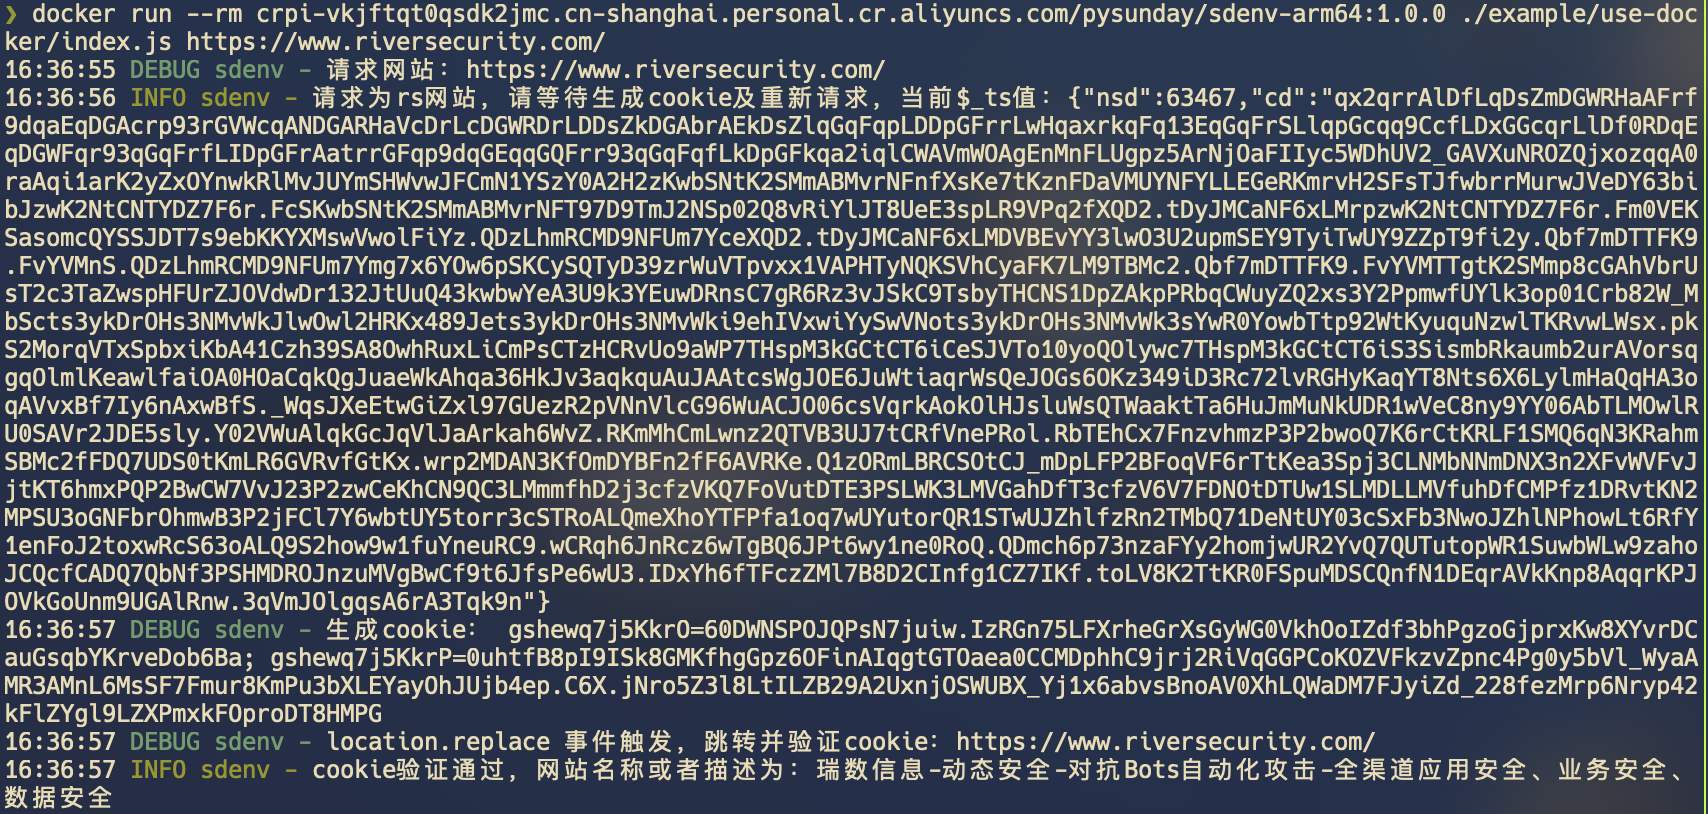
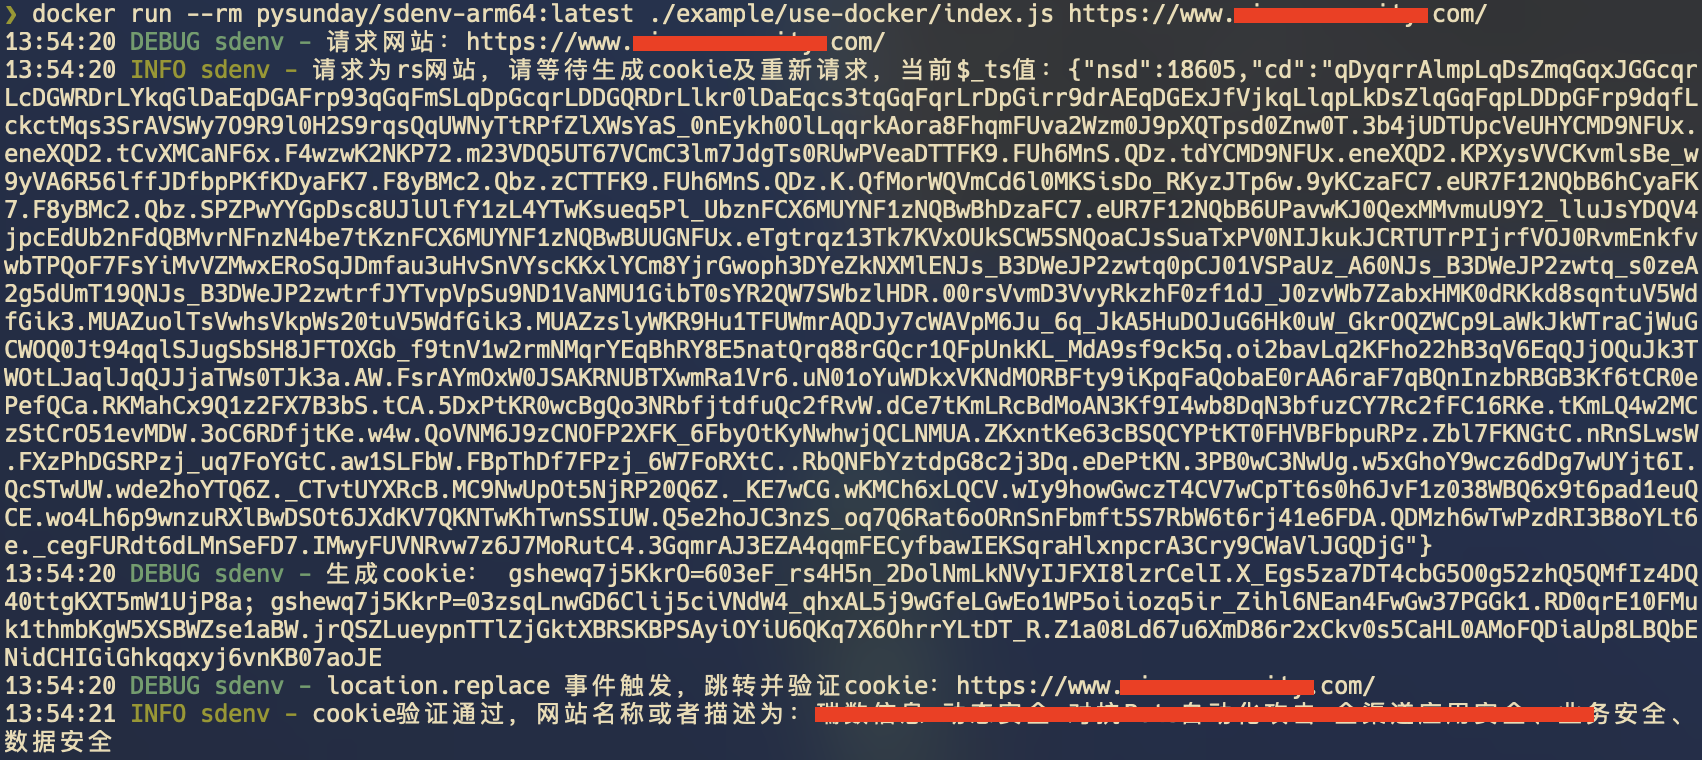
fix: 1. example样例use-docker优化; 2. docker调用方式优化; 3. 免责声明与文档调整

diff --git a/example/use-docker/index.js b/example/use-docker/index.js
@@ -2,9 +2,13 @@
 
 // process.env.NODE_TLS_REJECT_UNAUTHORIZED = "0"
 // process.env.OPENSSL_LEGACY_RENEGOTIATION = '1';
+try{require('module-alias')()}catch(err){};
 const logger = require('sdenv/utils/logger');
-const { jsdomFromUrl } = require('sdenv');
-const userAgent = 'Mozilla/5.0 (Macintosh; Intel Mac OS X 10_15_7) AppleWebKit/537.36 (KHTML, like Gecko) Chrome/121.0.0.0 Safari/537.36';
+const { jsdomFromUrl, jsdomFromText } = require('sdenv');
+const header = {
+  userAgent: 'Mozilla/5.0 (Macintosh; Intel Mac OS X 10_15_7) AppleWebKit/537.36 (KHTML, like Gecko) Chrome/121.0.0.0 Safari/537.36',
+  // proxy: "http://127.0.0.1:8888",
+}
 
 const args = process.argv.slice(2);
 
@@ -12,42 +16,49 @@ const tarUrl = args[0];
 if (!tarUrl) throw new Error('请传入目标网站地址！')
 logger.debug(`请求网站：${tarUrl}`);
 
-async function loadPagesSecond(url, cookieJar) {
-  const { window, sdenv } = await jsdomFromUrl(url, { cookieJar, userAgent });
-  const title = window.document.title
-    || window.document.querySelector('meta[name="keywords"]')?.content
-    || window.document.querySelector('meta[name="description"]')?.content;
-  if (title) {
-    logger.info(`cookie验证通过，网站名称或者描述为：${title}`);
-  } else {
-    try {
-      const bodyContent = window.document.getElementsByTagName('body')[0].textContent.replace(/\s+/g, ' ')
-      logger.info(`body文本：${sdenv.tools.compressText(bodyContent, 300)}`);
-      logger.error('未找到网页标题、关键词或描述，请自行核对body文本验证！');
-    } catch(err) {
-      logger.error('cookie验证不通过！')
-    }
-  }
-  process.exit();
-}
-
-async function loadPagesFirst(url) {
-  const { window, sdenv, cookieJar, serialize } = await jsdomFromUrl(url, { userAgent });
+async function loadPage(url) {
+  const { window, sdenv, cookieJar, serialize } = await jsdomFromUrl(url, header);
   if (window.$_ts) {
     logger.info(`请求为rs网站，请等待生成cookie及重新请求，当前$_ts值：${JSON.stringify(window.$_ts)}`)
   } else {
     logger.warn(sdenv.tools.compressText(serialize(), 800));
     logger.warn('请求非rs网站!');
   }
-  window.addEventListener('sdenv:exit', (e) => {
+  window.addEventListener('sdenv:exit', async (e) => {
     if (['location.replace', 'location.assign'].includes(e.detail.eventId)) {
       const cookies = cookieJar.getCookieStringSync(url);
       logger.debug('生成cookie：', cookies);
       logger.debug(`${e.detail.eventId} 事件触发，跳转并验证cookie：${e.detail.url}`);
-      loadPagesSecond(e.detail.url, cookieJar);
       window.close();
+      const res = await fetch(e.detail.url, {
+        headers: {
+          "Cookie": cookies,
+          "user-agent": header.userAgent,
+        },
+      });
+      const contentType = res.headers.get('content-type');
+      const text = await res.text()
+      if (contentType === 'application/json') {
+        logger.info(`cookie验证通过，返回的数据：${sdenv.tools.compressText(text, 300)}`);
+      } else {
+        const { window } = jsdomFromText(text);
+        const title = window.document.title
+          || window.document.querySelector('meta[name="keywords"]')?.content
+          || window.document.querySelector('meta[name="description"]')?.content;
+        if (title) {
+          logger.info(`cookie验证通过，网站名称或者描述为：${title}`);
+        } else {
+          try {
+            const bodyContent = window.document.getElementsByTagName('body')[0].textContent.replace(/\s+/g, ' ')
+            logger.info(`body文本：${sdenv.tools.compressText(bodyContent, 300)}`);
+            logger.error('未找到网页标题、关键词或描述，请自行核对body文本验证！');
+          } catch(err) {
+            logger.error('cookie验证不通过！')
+          }
+        }
+      }
     }
   })
 }
 
-loadPagesFirst(tarUrl)
+loadPage(tarUrl)

diff --git a/example/use-remote/index.js b/example/use-remote/index.js
@@ -1,7 +1,8 @@
 // process.env.NODE_TLS_REJECT_UNAUTHORIZED = "0"
 // process.env.OPENSSL_LEGACY_RENEGOTIATION = '1';
-const logger = require('../../utils/logger');
-const { jsdomFromUrl } = require('../../');
+try{require('module-alias')()}catch(err){};
+const logger = require('sdenv/utils/logger');
+const { jsdomFromUrl } = require('sdenv');
 const userAgent = 'Mozilla/5.0 (Macintosh; Intel Mac OS X 10_15_7) AppleWebKit/537.36 (KHTML, like Gecko) Chrome/121.0.0.0 Safari/537.36';
 
 const tarUrl = "https://zhaopin.sgcc.com.cn/sgcchr/static/dynaAument.html"

diff --git a/example/use-local/index.js b/example/use-local/index.js
@@ -1,8 +1,9 @@
+try{require('module-alias')()}catch(err){};
 const fs = require('fs');
 const path = require('path');
 const { Script } = require("vm");
-const logger = require('../../utils/logger');
-const { jsdomFromText } = require('../../');
+const logger = require('sdenv/utils/logger');
+const { jsdomFromText } = require('sdenv');
 
 const baseUrl = "https://wcjs.sbj.cnipa.gov.cn"
 

diff --git a/index.js b/index.js
@@ -1,6 +1,6 @@
 const { jsdomFromText, jsdomFromUrl } = require('./utils/jsdom');
 const browser = require('./browser/');
-const version = require('./package.json').version;
+const version = require('./package.json').version.split('-')[0];
 
 module.exports = {
   jsdomFromUrl,

diff --git a/DISCLAIMER.md b/DISCLAIMER.md
@@ -1,0 +1,48 @@
+# 🛡 免责声明 / Disclaimer
+
+## 📘 中文版
+
+本项目仅供学习、研究与技术交流使用。
+
+本仓库中提供的所有源代码、示例、配置文件及文档内容，**仅用于展示网络数据采集、浏览器自动化、逆向分析等相关技术的实现原理**。  
+请勿将本项目的任何部分用于商业用途或违法用途。
+
+使用者在使用本项目时，必须遵守以下原则：
+1. 遵守当地法律法规；
+2. 尊重目标网站的服务条款与隐私政策；
+3. 严格遵守网站的 **robots.txt** 协议；
+4. 不对任何网站、服务器或第三方造成负担、破坏或损害；
+5. 不采集、存储或传播任何受版权保护或个人隐私的数据。
+
+若使用者违反上述原则或使用本项目从事违法违规活动，**与本项目作者无关，后果由使用者自行承担**。
+
+本项目及其作者不对任何直接或间接损失、法律纠纷或其他后果承担责任。  
+如本项目内容侵犯了您的合法权益，请联系作者以删除相关内容。
+
+---
+
+## 🌍 English Version
+
+This project is **for educational and research purposes only**.
+
+All source code, examples, configurations, and documentation in this repository  
+are provided **solely to demonstrate the technical principles of web data collection, browser automation, and reverse engineering**.  
+The project **must not** be used for commercial or unlawful purposes.
+
+Users of this project must comply with the following rules:
+1. Follow all applicable laws and regulations;
+2. Respect the target websites’ Terms of Service and Privacy Policies;
+3. Obey each site’s **robots.txt** instructions;
+4. Avoid causing any damage, overload, or disruption to servers or third parties;
+5. Do not collect, store, or distribute any copyrighted or personal information.
+
+Any misuse of this project or violation of these principles is the **sole responsibility of the user**,  
+and the author bears **no liability** for any resulting damages or legal consequences.
+
+If any content in this repository infringes upon your legal rights, please contact the author for prompt removal.
+
+---
+
+> [!CAUTION]
+> ⚠ 本项目仅供研究与教学使用。使用本项目即表示您已知悉并同意自行承担风险。
+
